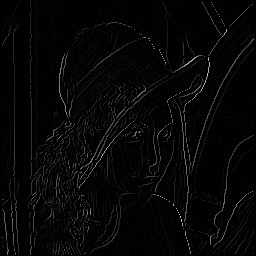
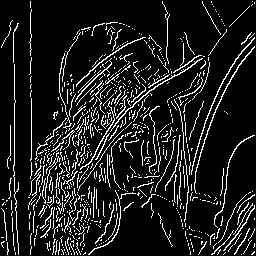
submit

diff --git a/MP5/main.py b/MP5/main.py
@@ -31,8 +31,8 @@ def image_gradient(img):
 
     g_x, g_y = get_sobel_kernel()
 
-    x_res = convolution(img, g_x)
-    y_res = convolution(img, g_y)
+    x_res = convolve(img, g_x)
+    y_res = convolve(img, g_y)
 
     mag = np.sqrt(np.square(x_res) + np.square(y_res))
     mag *= 255.0 / mag.max()
@@ -231,11 +231,11 @@ def run_pipeline(img, save_path, low, high, weak):
     mag, theta = image_gradient(img)
     res = non_max_suppression(mag, theta)
     #res = non_maxima_sup(img, mag, theta)
-    cv2.imwrite(save_path, res)
-    return
+
 
     res = threshold(res, low, high, weak)
     res = link_weak_strong(res)
+    cv2.imwrite(save_path, res)
 
 
 def run_pipeline_cv(img, save_path, low, high):
@@ -278,33 +278,33 @@ def zero_crossing(img, save_path):
 
 
 
-def non_maxima_sup(img, mag, theta):
-
-    img = pad_img(img, np.zeros((3,3))).astype(np.uint8)
-
-    res = np.zeros(mag.shape)
-
-    start_x = int(3 / 2)
-    start_y = start_x
-
-    half_kernel_size = int(3 / 2)
-
-    for y in range(0, mag.shape[0]):
-        for x in range(0, mag.shape[1]):
-            if x < start_x or y < start_y or x >= mag.shape[1] - start_x or y >= mag.shape[
-                0] - start_y:  # taking care of edges
-                continue
-
-            region = mag[y - half_kernel_size: y + half_kernel_size + 1,
-                     x - half_kernel_size: x + half_kernel_size + 1]
-            rad = theta[y][x]
-            indices = look_up_table(rad)
-            if region[indices[0][1]][indices[0][0]] <= region[1][1] and region[indices[1][1]][indices[1][0]] <= region[1][1]:
-                res[y, x] = mag[y][x]
-            else:
-                res[y, x] = 0
-
-    return res
+# def non_maxima_sup(img, mag, theta):
+#
+#     img = pad_img(img, np.zeros((3,3))).astype(np.uint8)
+#
+#     res = np.zeros(mag.shape)
+#
+#     start_x = int(3 / 2)
+#     start_y = start_x
+#
+#     half_kernel_size = int(3 / 2)
+#
+#     for y in range(0, mag.shape[0]):
+#         for x in range(0, mag.shape[1]):
+#             if x < start_x or y < start_y or x >= mag.shape[1] - start_x or y >= mag.shape[
+#                 0] - start_y:  # taking care of edges
+#                 continue
+#
+#             region = mag[y - half_kernel_size: y + half_kernel_size + 1,
+#                      x - half_kernel_size: x + half_kernel_size + 1]
+#             rad = theta[y][x]
+#             indices = look_up_table(rad)
+#             if region[indices[0][1]][indices[0][0]] <= region[1][1] and region[indices[1][1]][indices[1][0]] <= region[1][1]:
+#                 res[y, x] = mag[y][x]
+#             else:
+#                 res[y, x] = 0
+#
+#     return res
 
 
 
